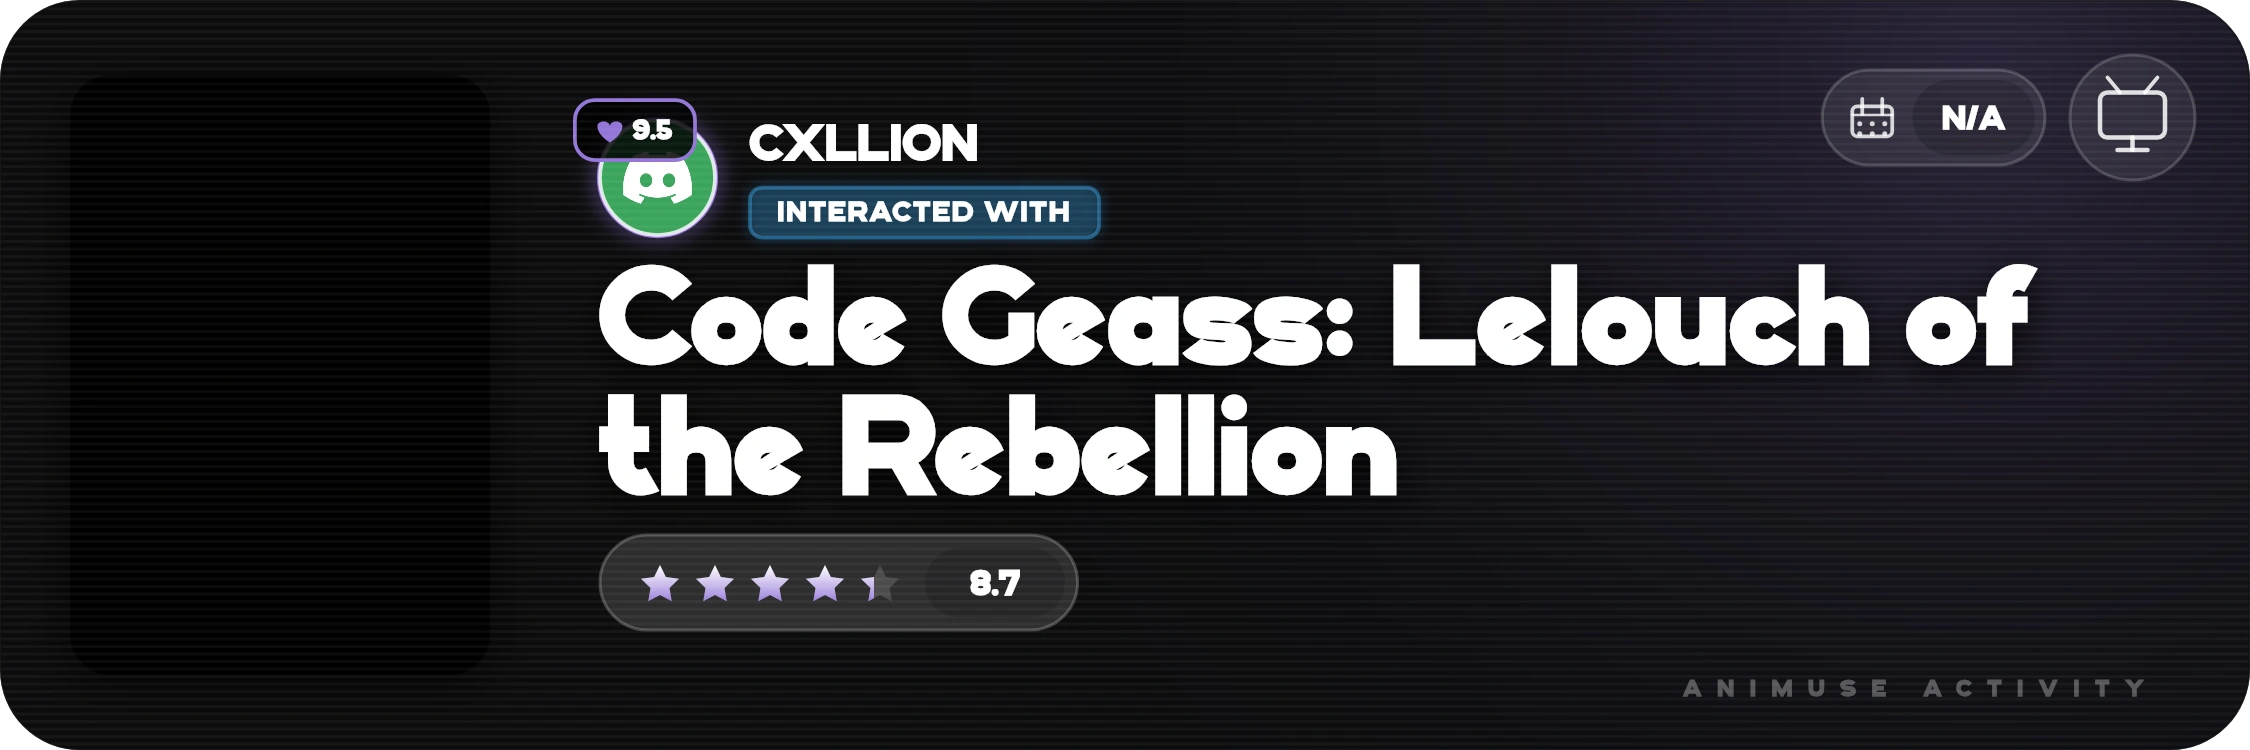
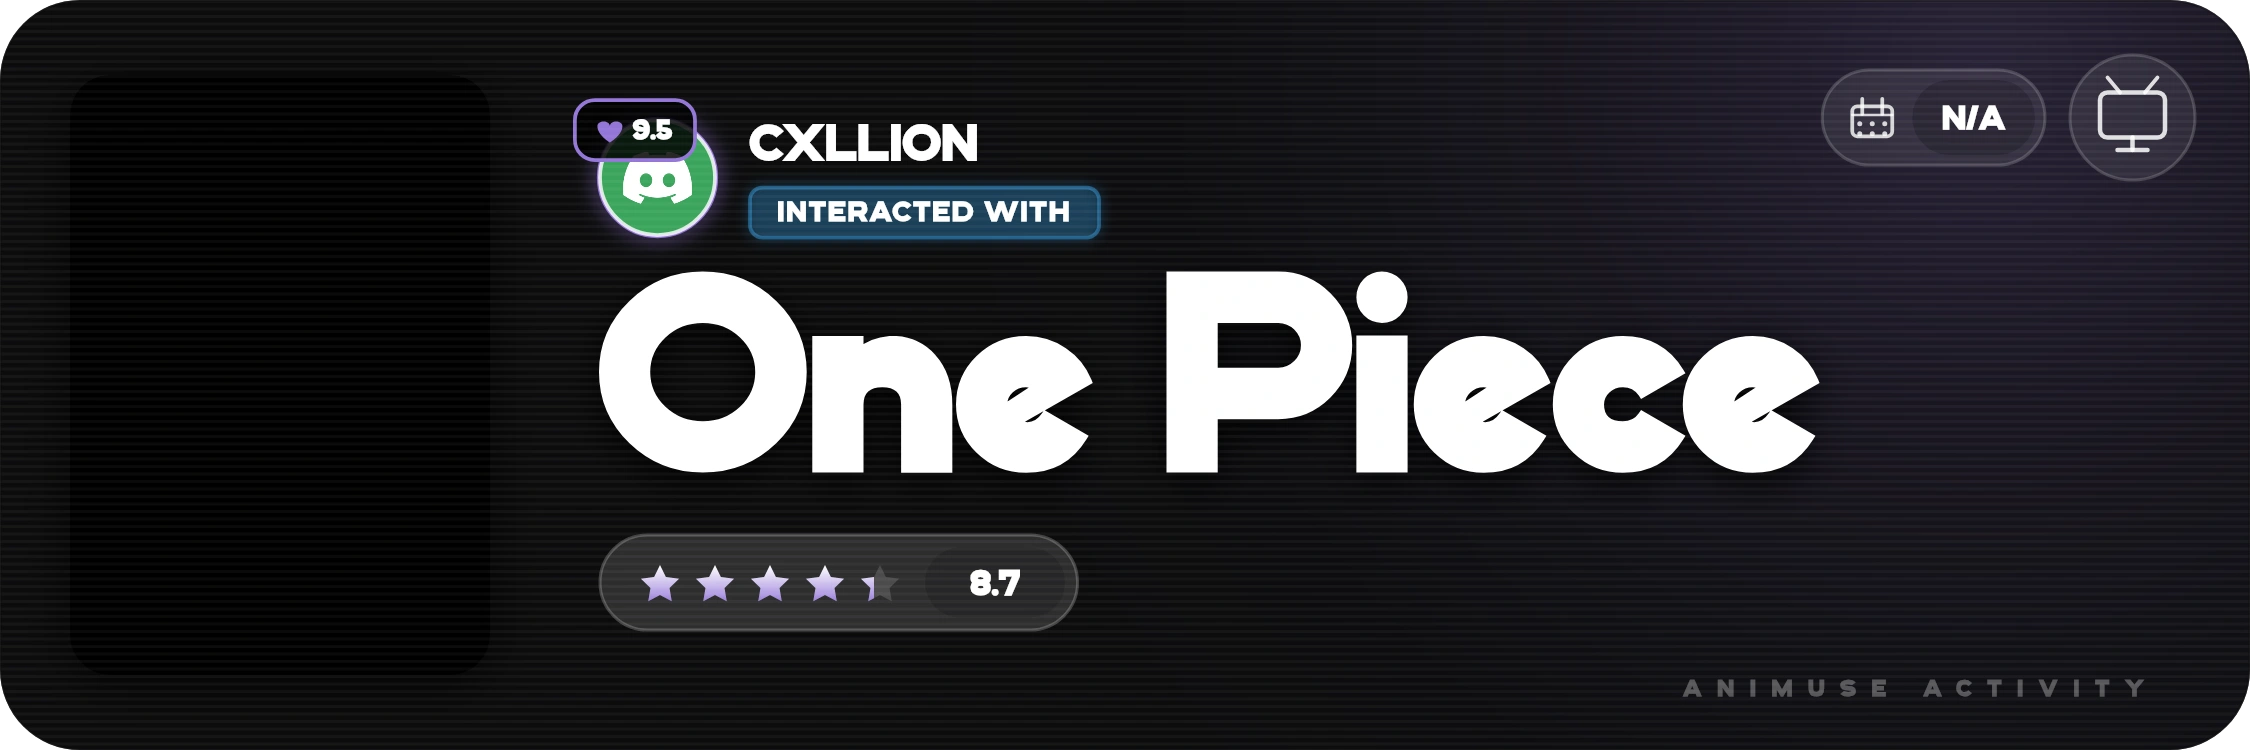
chore: update preview urls again

Changed region(s): [[0.2489, 0.3373, 0.9022, 0.6747]]

diff --git a/preview.js b/preview.js
@@ -163,9 +163,9 @@ const generators = {
 
         const baseActivity = {
             media: {
-                title: { english: 'One Piece', romaji: 'One Piece' },
-                coverImage: { extraLarge: 'https://s4.anilist.co/file/anilistcdn/media/anime/cover/large/bx21-YCD308643198.jpg', color: '#8B5CF6' },
-                bannerImage: 'https://s4.anilist.co/file/anilistcdn/media/anime/banner/21-63043198.jpg',
+                title: { english: 'Cowboy Bebop', romaji: 'Cowboy Bebop' },
+                coverImage: { extraLarge: 'https://s4.anilist.co/file/anilistcdn/media/anime/cover/large/bx1-995662.jpg', color: '#8B5CF6' },
+                bannerImage: 'https://s4.anilist.co/file/anilistcdn/media/anime/banner/1-979z79.jpg',
                 averageScore: 87,
                 format: 'TV'
             },
